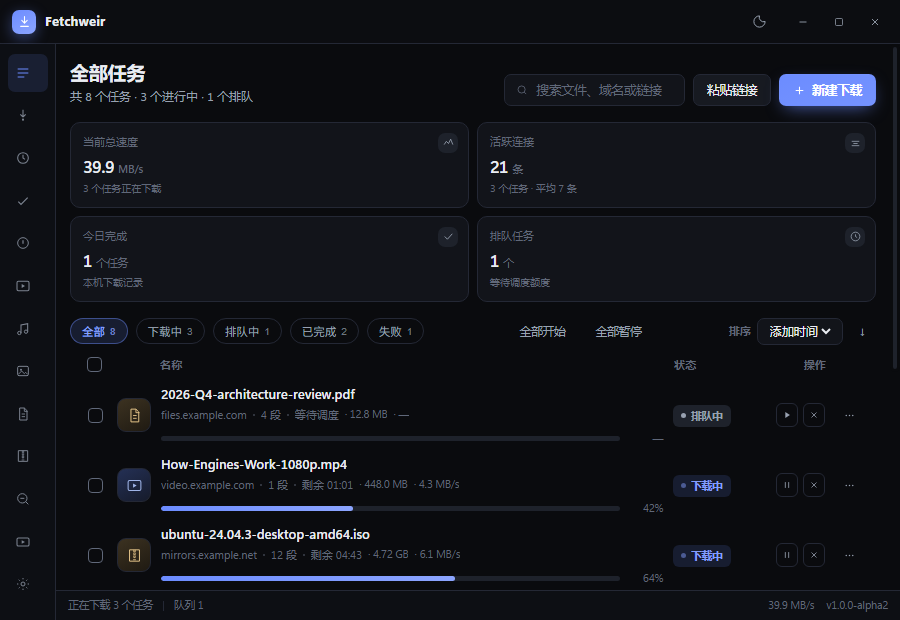
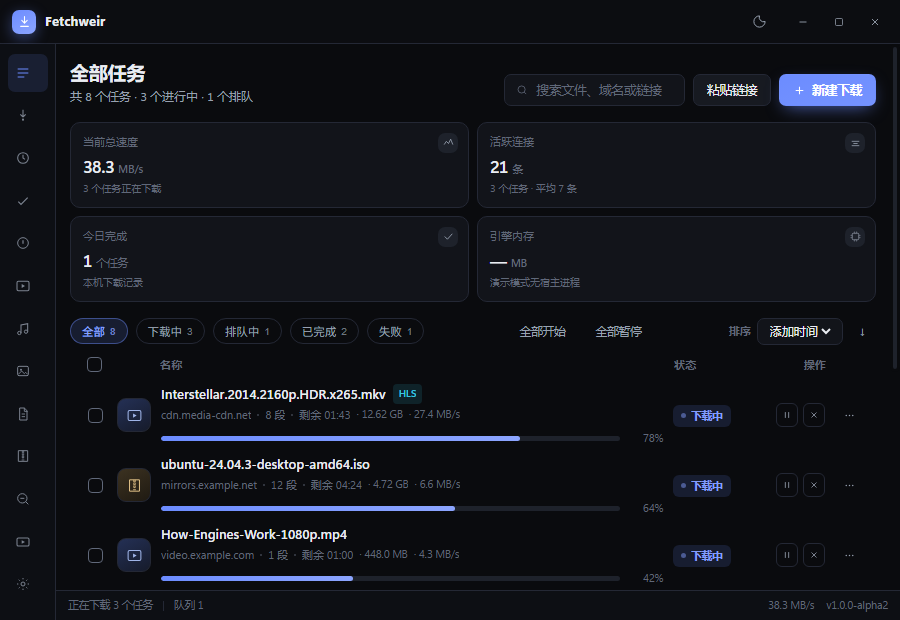
feat(ui): 引擎内存接 PSAPI 真实值、设置页导出配置、嗅探扩展名筛选

diff --git a/src/app.js b/src/app.js
@@ -66,6 +66,7 @@
     sniffHideDup: false,
     video: { info: null, tab: 'video', sel: null, job: null, url: '' },
     themePref: 'dark',
+    memBytes: null,
     speedHistory: [],
     timers: {}
   };
@@ -201,10 +202,10 @@
   function demoTasks() {
     const now = Date.now();
     return [
-      { id: 1, url: 'https://cdn.media-cdn.net/hls/master.m3u8?token=9f2', fileName: 'Interstellar.2014.2160p.HDR.x265.mkv', savePath: 'C:\\Users\\Tyler\\Downloads\\Interstellar.2014.2160p.HDR.x265.mkv', totalBytes: 12.62 * GB, doneBytes: 9.84 * GB, speedBps: 28.4 * MB, state: 'active', error: null, createdAt: now - 32 * 60000, supportsRanges: true, connections: 8 },
-      { id: 2, url: 'https://mirrors.example.net/ubuntu/24.04/ubuntu-24.04.3-desktop-amd64.iso', fileName: 'ubuntu-24.04.3-desktop-amd64.iso', savePath: 'C:\\Users\\Tyler\\Downloads\\ubuntu-24.04.3-desktop-amd64.iso', totalBytes: 4.72 * GB, doneBytes: 3.02 * GB, speedBps: 6.2 * MB, state: 'active', error: null, createdAt: now - 18 * 60000, supportsRanges: true, connections: 12 },
-      { id: 3, url: 'https://video.example.com/files/engines-1080.mp4', fileName: 'How-Engines-Work-1080p.mp4', savePath: 'C:\\Users\\Tyler\\Downloads\\How-Engines-Work-1080p.mp4', totalBytes: 448 * MB, doneBytes: 184 * MB, speedBps: 4.1 * MB, state: 'active', error: null, createdAt: now - 9 * 60000, supportsRanges: true, connections: 1 },
-      { id: 4, url: 'https://files.example.com/docs/2026-q4-architecture-review.pdf', fileName: '2026-Q4-architecture-review.pdf', savePath: 'C:\\Users\\Tyler\\Downloads\\2026-Q4-architecture-review.pdf', totalBytes: 12.8 * MB, doneBytes: 0, speedBps: 0, state: 'queued', error: null, createdAt: now - 4 * 60000, supportsRanges: true, connections: 4 },
+      { id: 1, url: 'https://cdn.media-cdn.net/hls/master.m3u8?token=9f2', fileName: 'Interstellar.2014.2160p.HDR.x265.mkv', savePath: 'C:\\Users\\Tyler\\Downloads\\Interstellar.2014.2160p.HDR.x265.mkv', totalBytes: 12.62 * GB, doneBytes: 9.84 * GB, speedBps: 28.4 * MB, state: 'active', error: null, createdAt: now - 3 * 60000, supportsRanges: true, connections: 8 },
+      { id: 2, url: 'https://mirrors.example.net/ubuntu/24.04/ubuntu-24.04.3-desktop-amd64.iso', fileName: 'ubuntu-24.04.3-desktop-amd64.iso', savePath: 'C:\\Users\\Tyler\\Downloads\\ubuntu-24.04.3-desktop-amd64.iso', totalBytes: 4.72 * GB, doneBytes: 3.02 * GB, speedBps: 6.2 * MB, state: 'active', error: null, createdAt: now - 6 * 60000, supportsRanges: true, connections: 12 },
+      { id: 3, url: 'https://video.example.com/files/engines-1080.mp4', fileName: 'How-Engines-Work-1080p.mp4', savePath: 'C:\\Users\\Tyler\\Downloads\\How-Engines-Work-1080p.mp4', totalBytes: 448 * MB, doneBytes: 184 * MB, speedBps: 4.1 * MB, state: 'active', error: null, createdAt: now - 10 * 60000, supportsRanges: true, connections: 1 },
+      { id: 4, url: 'https://files.example.com/docs/2026-q4-architecture-review.pdf', fileName: '2026-Q4-architecture-review.pdf', savePath: 'C:\\Users\\Tyler\\Downloads\\2026-Q4-architecture-review.pdf', totalBytes: 12.8 * MB, doneBytes: 0, speedBps: 0, state: 'queued', error: null, createdAt: now - 14 * 60000, supportsRanges: true, connections: 4 },
       { id: 5, url: 'https://cdn.podcast.example.com/ep214/commentary-160k.webm', fileName: 'Podcast-Ep214-commentary-160k.webm', savePath: 'C:\\Users\\Tyler\\Downloads\\Podcast-Ep214-commentary-160k.webm', totalBytes: 94 * MB, doneBytes: 54.6 * MB, speedBps: 0, state: 'failed', error: '分片 #118 失败：HTTP 403（签名已过期，重试 3 次）', createdAt: now - 51 * 60000, supportsRanges: true, connections: 6 },
       { id: 6, url: 'https://audio.example.com/books/part-02.m4b', fileName: 'Audiobook-Vol1-Part-02.m4b', savePath: 'C:\\Users\\Tyler\\Downloads\\Audiobook-Vol1-Part-02.m4b', totalBytes: 640 * MB, doneBytes: 224 * MB, speedBps: 0, state: 'paused', error: null, createdAt: now - 2 * 3600000, supportsRanges: true, connections: 4 },
       { id: 7, url: 'https://cdn.example.com/keynote/2026-keynote-1080p.mp4', fileName: 'Keynote-2026-1080p-H264.mp4', savePath: 'C:\\Users\\Tyler\\Downloads\\Keynote-2026-1080p-H264.mp4', totalBytes: 1.28 * GB, doneBytes: 1.28 * GB, speedBps: 0, state: 'completed', error: null, createdAt: now - 3 * 3600000, supportsRanges: true, connections: 8 },
@@ -625,8 +626,16 @@
     const todayDone = completed.filter((t) => (t.createdAt || 0) >= dayStart.getTime()).length;
     setValue('statToday', todayDone, ' 个任务');
     $('statTodaySub').textContent = '本机下载记录';
-    setValue('statQueue', queued.length, ' 个');
-    $('statQueueSub').textContent = queued.length ? '等待调度额度' : '队列为空';
+    if (isDemo) {
+      setValue('statMemory', '—', ' MB');
+      $('statMemorySub').textContent = '演示模式无宿主进程';
+    } else if (state.memBytes) {
+      setValue('statMemory', (state.memBytes / MB).toFixed(1), ' MB');
+      $('statMemorySub').textContent = '宿主进程工作集 · PSAPI';
+    } else {
+      setValue('statMemory', '—', ' MB');
+      $('statMemorySub').textContent = '宿主进程工作集';
+    }
 
     const settings = state.settings || DEMO_SETTINGS;
     const limit = settings.globalLimitBps || 0;
@@ -1572,15 +1581,18 @@
       $('sniffPageMeta').textContent = '—';
     }
     renderSniffDomain(all);
+    renderSniffExt(all);
 
     const kw = ($('sniffKw').value || '').trim().toLowerCase();
     const minSize = Number($('sniffMinSize').value) || 0;
     const domain = $('sniffDomain').value || '';
+    const ext = ($('sniffExt').value || '').toLowerCase();
     const filtered = all.filter((item) => {
       if (state.sniffChip !== 'all' && bucketOf(item) !== state.sniffChip) return false;
       if (state.sniffHideDup && (item.hits || 0) > 1) return false;
       if (minSize && (item.size || 0) < minSize) return false;
       if (domain && sniffHost(item) !== domain) return false;
+      if (ext && extOf(item.url) !== ext) return false;
       if (kw) {
         const hay = (item.url + ' ' + (item.pageUrl || '') + ' ' + (item.mime || '') + ' ' + sniffName(item)).toLowerCase();
         if (!hay.includes(kw)) return false;
@@ -1624,6 +1636,27 @@
       });
       sel.dataset.sig = sig;
       sel.value = hosts.includes(prev) ? prev : '';
+    }
+  }
+
+  function renderSniffExt(all) {
+    const sel = $('sniffExt');
+    if (!sel) return;
+    const exts = Array.from(new Set(all.map((i) => extOf(i.url)).filter(Boolean))).sort();
+    const sig = exts.join('|');
+    if (sel.dataset.sig !== sig) {
+      const prev = sel.value;
+      sel.textContent = '';
+      const optAll = el('option', '', '全部格式');
+      optAll.value = '';
+      sel.append(optAll);
+      exts.forEach((x) => {
+        const o = el('option', '', '.' + x);
+        o.value = x;
+        sel.append(o);
+      });
+      sel.dataset.sig = sig;
+      sel.value = exts.includes(prev) ? prev : '';
     }
   }
 
@@ -2223,6 +2256,14 @@
 
     /* 关于 / 数据 */
     on('btnClearSniff', 'click', clearSniffItems);
+    on('btnExportSettings', 'click', async () => {
+      if (isDemo) { toast('演示模式：不会写出真实配置文件'); return; }
+      try {
+        const path = await invoke('export_settings');
+        const name = String(path || '').split(/[\\/]/).pop() || '配置文件';
+        toast('已导出 ' + name + '（不含更新令牌）');
+      } catch (err) { toast('导出配置失败：' + ((err && err.message) || err), 'err'); }
+    });
     on('btnOpenData', 'click', async () => {
       if (isDemo) { toast('演示模式：数据目录 ' + ((state.info && state.info.dataDir) || 'C:\\Users\\Tyler\\AppData\\Roaming\\Fetchweir')); return; }
       try { await invoke('open_data_dir'); } catch (err) { toast('打开数据目录失败：' + ((err && err.message) || err), 'err'); }
@@ -2274,6 +2315,7 @@
     }));
     on('sniffKw', 'input', () => renderSniff());
     on('sniffMinSize', 'change', () => renderSniff());
+    on('sniffExt', 'change', () => renderSniff());
     on('sniffDomain', 'change', () => renderSniff());
     on('sniffHideDup', 'click', () => {
       state.sniffHideDup = !state.sniffHideDup;
@@ -2390,6 +2432,15 @@
       loadSniffStatus();
       renderSniffStoreInfo();
     }, 2000);
+    setInterval(() => {
+      if (document.hidden) return;
+      invoke('engine_memory')
+        .then((bytes) => {
+          state.memBytes = Number(bytes) || null;
+          renderStats();
+        })
+        .catch(() => {});
+    }, 3000);
   }
 
   /* ---------------- 版本信息 ---------------- */

diff --git a/src/index.html b/src/index.html
@@ -166,10 +166,10 @@
             <div class="u"><svg width="13" height="13" viewBox="0 0 24 24" fill="none"><path d="M5 12l5 5L19 7" stroke="currentColor" stroke-width="1.7"/></svg></div>
           </div>
           <div class="stat">
-            <div class="k">排队任务</div>
-            <div class="v" id="statQueue">0 <span>个</span></div>
-            <div class="d" id="statQueueSub">等待调度额度</div>
-            <div class="u"><svg width="13" height="13" viewBox="0 0 24 24" fill="none"><circle cx="12" cy="12" r="8" stroke="currentColor" stroke-width="1.5"/><path d="M12 8v4l3 2" stroke="currentColor" stroke-width="1.5"/></svg></div>
+            <div class="k">引擎内存</div>
+            <div class="v" id="statMemory">— <span>MB</span></div>
+            <div class="d" id="statMemorySub">宿主进程工作集</div>
+            <div class="u"><svg width="13" height="13" viewBox="0 0 24 24" fill="none"><rect x="6" y="6" width="12" height="12" rx="2" stroke="currentColor" stroke-width="1.4"/><path d="M10 3v2M14 3v2M10 19v2M14 19v2M3 10h2M3 14h2M19 10h2M19 14h2" stroke="currentColor" stroke-width="1.3"/></svg></div>
           </div>
         </div>
 
@@ -488,6 +488,9 @@
             <option value="1048576">≥ 1 MB</option>
             <option value="10485760">≥ 10 MB</option>
           </select>
+          <select class="mini-select" id="sniffExt" title="按扩展名筛选">
+            <option value="">全部格式</option>
+          </select>
           <select class="mini-select" id="sniffDomain" title="按域名筛选">
             <option value="">全部域名</option>
           </select>
@@ -516,6 +519,7 @@
           </div>
           <div class="head-actions">
             <span class="dim" id="settingsSaveState">已自动保存</span>
+            <button class="btn" id="btnExportSettings" title="导出为 JSON 到下载目录（不含更新令牌）">导出配置</button>
           </div>
         </div>
 

diff --git a/src-tauri/src/commands.rs b/src-tauri/src/commands.rs
@@ -36,6 +36,47 @@ pub fn list_tasks(engine: State<'_, Arc<Engine>>) -> Vec<TaskDto> {
     engine.list()
 }
 
+/// 宿主进程当前工作集（字节）；拿不到时返回 null，前端显示「—」。
+#[tauri::command]
+pub fn engine_memory() -> Option<u64> {
+    crate::platform::process_memory()
+}
+
+/// 把当前配置导出为 JSON 到下载目录；更新令牌属于凭据，导出时清空。
+#[tauri::command]
+pub fn export_settings(engine: State<'_, Arc<Engine>>) -> Result<String, String> {
+    let settings = engine.settings.read().unwrap().clone();
+    let dir = PathBuf::from(&settings.download_dir);
+    let path = write_settings_export(&settings, &dir)?;
+    Ok(path.to_string_lossy().to_string())
+}
+
+fn settings_export_body(settings: &Settings) -> Result<String, String> {
+    let mut value = serde_json::to_value(settings).map_err(|e| e.to_string())?;
+    if let Some(obj) = value.as_object_mut() {
+        obj.insert(
+            "updateToken".to_string(),
+            serde_json::Value::String(String::new()),
+        );
+    }
+    serde_json::to_string_pretty(&value).map_err(|e| e.to_string())
+}
+
+fn write_settings_export(settings: &Settings, dir: &Path) -> Result<PathBuf, String> {
+    let stamp = std::time::SystemTime::now()
+        .duration_since(std::time::UNIX_EPOCH)
+        .map(|d| d.as_secs())
+        .unwrap_or(0);
+    let name = format!("fetchweir-settings-{stamp}.json");
+    let path = if dir.is_dir() {
+        dir.join(&name)
+    } else {
+        settings::ensure_data_dir().join(&name)
+    };
+    std::fs::write(&path, settings_export_body(settings)?).map_err(|e| e.to_string())?;
+    Ok(path)
+}
+
 #[tauri::command]
 pub fn add_task(
     engine: State<'_, Arc<Engine>>,
@@ -401,5 +442,26 @@ fn open_target(target: &Path, reveal: bool) -> Result<(), String> {
             .spawn()
             .map_err(|e| e.to_string())?;
         Ok(())
+    }
+}
+
+#[cfg(test)]
+mod tests {
+    use super::*;
+
+    #[test]
+    fn export_writes_json_without_token() {
+        let dir = std::env::temp_dir().join(format!("fw-export-test-{}", std::process::id()));
+        std::fs::create_dir_all(&dir).unwrap();
+        let mut settings = Settings::default();
+        settings.download_dir = dir.to_string_lossy().to_string();
+        settings.update_token = "secret-token".to_string();
+        let path = write_settings_export(&settings, &dir).unwrap();
+        let raw = std::fs::read_to_string(&path).unwrap();
+        assert!(raw.contains("\"updateToken\": \"\""));
+        assert!(!raw.contains("secret-token"));
+        assert!(raw.contains("\"downloadDir\""));
+        std::fs::remove_file(&path).unwrap();
+        std::fs::remove_dir_all(&dir).unwrap();
     }
 }

diff --git a/src-tauri/src/platform.rs b/src-tauri/src/platform.rs
@@ -111,6 +111,32 @@ fn whoami() -> String {
         .unwrap_or_else(|_| "unknown".to_string())
 }
 
+/// 当前进程工作集（字节）。用于主界面「引擎内存」统计卡，取自 PSAPI，非估算。
+/// 用 K32 前缀：Windows 的 psapi.dll 本身只导出 K32GetProcessMemoryInfo，
+/// 直接链 psapi!GetProcessMemoryInfo 会在加载时 STATUS_ENTRYPOINT_NOT_FOUND。
+#[cfg(windows)]
+pub fn process_memory() -> Option<u64> {
+    use windows_sys::Win32::System::ProcessStatus::{
+        K32GetProcessMemoryInfo, PROCESS_MEMORY_COUNTERS,
+    };
+    use windows_sys::Win32::System::Threading::GetCurrentProcess;
+
+    unsafe {
+        let mut counters: PROCESS_MEMORY_COUNTERS = std::mem::zeroed();
+        counters.cb = std::mem::size_of::<PROCESS_MEMORY_COUNTERS>() as u32;
+        let ok = K32GetProcessMemoryInfo(GetCurrentProcess(), &mut counters, counters.cb);
+        if ok == 0 {
+            return None;
+        }
+        Some(counters.WorkingSetSize as u64)
+    }
+}
+
+#[cfg(not(windows))]
+pub fn process_memory() -> Option<u64> {
+    None
+}
+
 #[cfg(windows)]
 pub fn is_elevated() -> bool {
     use windows_sys::Win32::Foundation::CloseHandle;
@@ -309,5 +335,14 @@ pub fn elevation_status(settings: &settings::Settings) -> ElevationStatus {
         run_registered: run_registered(),
         autostart: settings.autostart,
         note: note.to_string(),
+    }
+}
+
+#[cfg(all(test, windows))]
+mod tests {
+    #[test]
+    fn process_memory_reports_working_set() {
+        let bytes = super::process_memory().expect("PSAPI 应能读到当前进程工作集");
+        assert!(bytes > 0, "工作集应大于 0，实际 {bytes}");
     }
 }

diff --git a/src-tauri/src/lib.rs b/src-tauri/src/lib.rs
@@ -302,6 +302,8 @@ pub fn run() {
         .invoke_handler(tauri::generate_handler![
             commands::app_info,
             commands::list_tasks,
+            commands::engine_memory,
+            commands::export_settings,
             commands::add_task,
             commands::pause_task,
             commands::resume_task,

diff --git a/docs/界面还原对照.md b/docs/界面还原对照.md
@@ -7,6 +7,7 @@
 | 屏 | 设计稿 | 实现 | 并排对照 |
 | --- | --- | --- | --- |
 | 主界面 1280×800 | [mockup-main](ui-shots/mockup-main.png) | [app-main](ui-shots/app-main.png) | [compare-main](ui-shots/compare-main.png) |
+| 主界面（真实应用，非 demo） | — | [app-main-live](ui-shots/app-main-live.png) | 引擎内存取自 PSAPI，本机实测 41.4 MB |
 | 任务详情弹窗 | [mockup-detail](ui-shots/mockup-detail.png) | [app-detail](ui-shots/app-detail.png) | [compare-detail](ui-shots/compare-detail.png) |
 | 视频格式页 | [mockup-video](ui-shots/mockup-video.png) | [app-video](ui-shots/app-video.png) | [compare-video](ui-shots/compare-video.png) |
 | 资源嗅探页 | [mockup-sniff](ui-shots/mockup-sniff.png) | [app-sniff](ui-shots/app-sniff.png) | [compare-sniff](ui-shots/compare-sniff.png) |
@@ -21,9 +22,11 @@
 差异（如实）：
 
 1. 设计稿标题栏有通知铃铛，实现里没有：当前没有通知中心/消息源，按「不放假控件」的要求直接不画。
-2. 设计稿第 4 张统计卡是「引擎内存」，实现是「排队任务」：引擎没有上报进程内存，排队数是从队列真实读出的。
-3. 演示数据的默认排序是「添加时间倒序」，所以首屏第一条是最近加入的排队任务；设计稿首屏是三个进行中任务。
-   这是演示数据时间戳差异，不是排序逻辑缺失（表头排序可切换）。
+2. 设计稿第 4 张统计卡是「引擎内存」，实现同为「引擎内存」，但数值来源是宿主进程工作集
+   （`K32GetProcessMemoryInfo`，3 秒刷新）。真实应用实测 41.4 MB（[app-main-live](ui-shots/app-main-live.png)）；
+   `?demo` 页面没有宿主进程，数值显示「—」并注明「演示模式无宿主进程」，不填假数字。
+3. 演示数据时间戳已调整为使进行中任务最新，首屏三条进行中与设计稿一致；排序仍按「添加时间」，
+   表头可切换。此前排在前面的排队任务已下移。
 4. 设计稿底部是预览工具条（视口/自适应），不属于产品界面；实现底部是真实状态栏（任务数、队列、总速率、版本）。
 
 ## 任务详情弹窗
@@ -58,7 +61,8 @@
 差异：
 
 1. 设计稿是「扩展在线 · 抓取 214 个请求」一行说明；实现是宿主状态卡（Native Messaging 端口、档位、最近抓取数）。
-2. 设计稿有关键词/扩展名输入与「隐藏疑似」开关；实现的关键词在页头（文件名/域名），并已补「隐藏疑似重复」开关
+2. 设计稿有关键词/扩展名输入与「隐藏疑似」开关；实现的关键词在页头（文件名/域名），筛选条已补
+   「全部格式」扩展名下拉（选项来自实际捕获的扩展名，真实生效）与「隐藏疑似重复」开关
    （按命中次数 > 1 过滤，真实生效）。
 3. 设计稿行首是分辨率徽标（1080P/720P），实现是协议徽标（HLS/M3U8/MP4）；分辨率在视频页展示。
 
@@ -71,10 +75,20 @@
 
 1. 常规卡片新增「安装范围」只读行与「始终以管理员身份运行」开关（本轮新需求，设计稿没有）。
 2. 提权开启时展示 UIPI 提示条（拖放被拦截，建议粘贴链接或走扩展）。
-3. 设计稿右上角「导出配置」未实现：当前没有导出命令，故不放按钮（不造假控件）。
+3. 右上角「导出配置」已实现：调 `export_settings` 写出 `fetchweir-settings-<时间戳>.json` 到设置的下载目录
+   （目录不可用时落数据目录），并主动清空 `updateToken` 字段，避免把令牌写进普通文件。
+   已实测一次：文件写出、字段解析正常、令牌为空，见「实测证据」。
 
 ## 未接通控件清单（全部禁用并标注）
 
 - 视频格式页：下载字幕、字幕分页、解析器独立更新检查。
-- 设置页：无导出配置按钮。
 - 顶部通知图标：不渲染。
+
+## 实测证据（本轮）
+
+| 项 | 方法 | 结果 |
+| --- | --- | --- |
+| 引擎内存 | 真实应用（WebView2 CDP 读 DOM） | [app-main-live](ui-shots/app-main-live.png)：`41.4 MB`，副标题「宿主进程工作集 · PSAPI」 |
+| 导出配置 | 真实应用内点击按钮，再读文件 | 写出 `Downloads\fetchweir-settings-1794031430.json`，`updateToken` 为空，其余字段完整 |
+| 演示排序 | 重新导出 app-main | 首屏三条为进行中任务，排队任务排在第四行 |
+| 嗅探扩展名筛选 | 重新导出 app-sniff | 筛选条出现「全部格式」下拉，选项来自 demo 捕获项（m3u8/mp4/webm/pdf/zip/jpg/m4a） |
